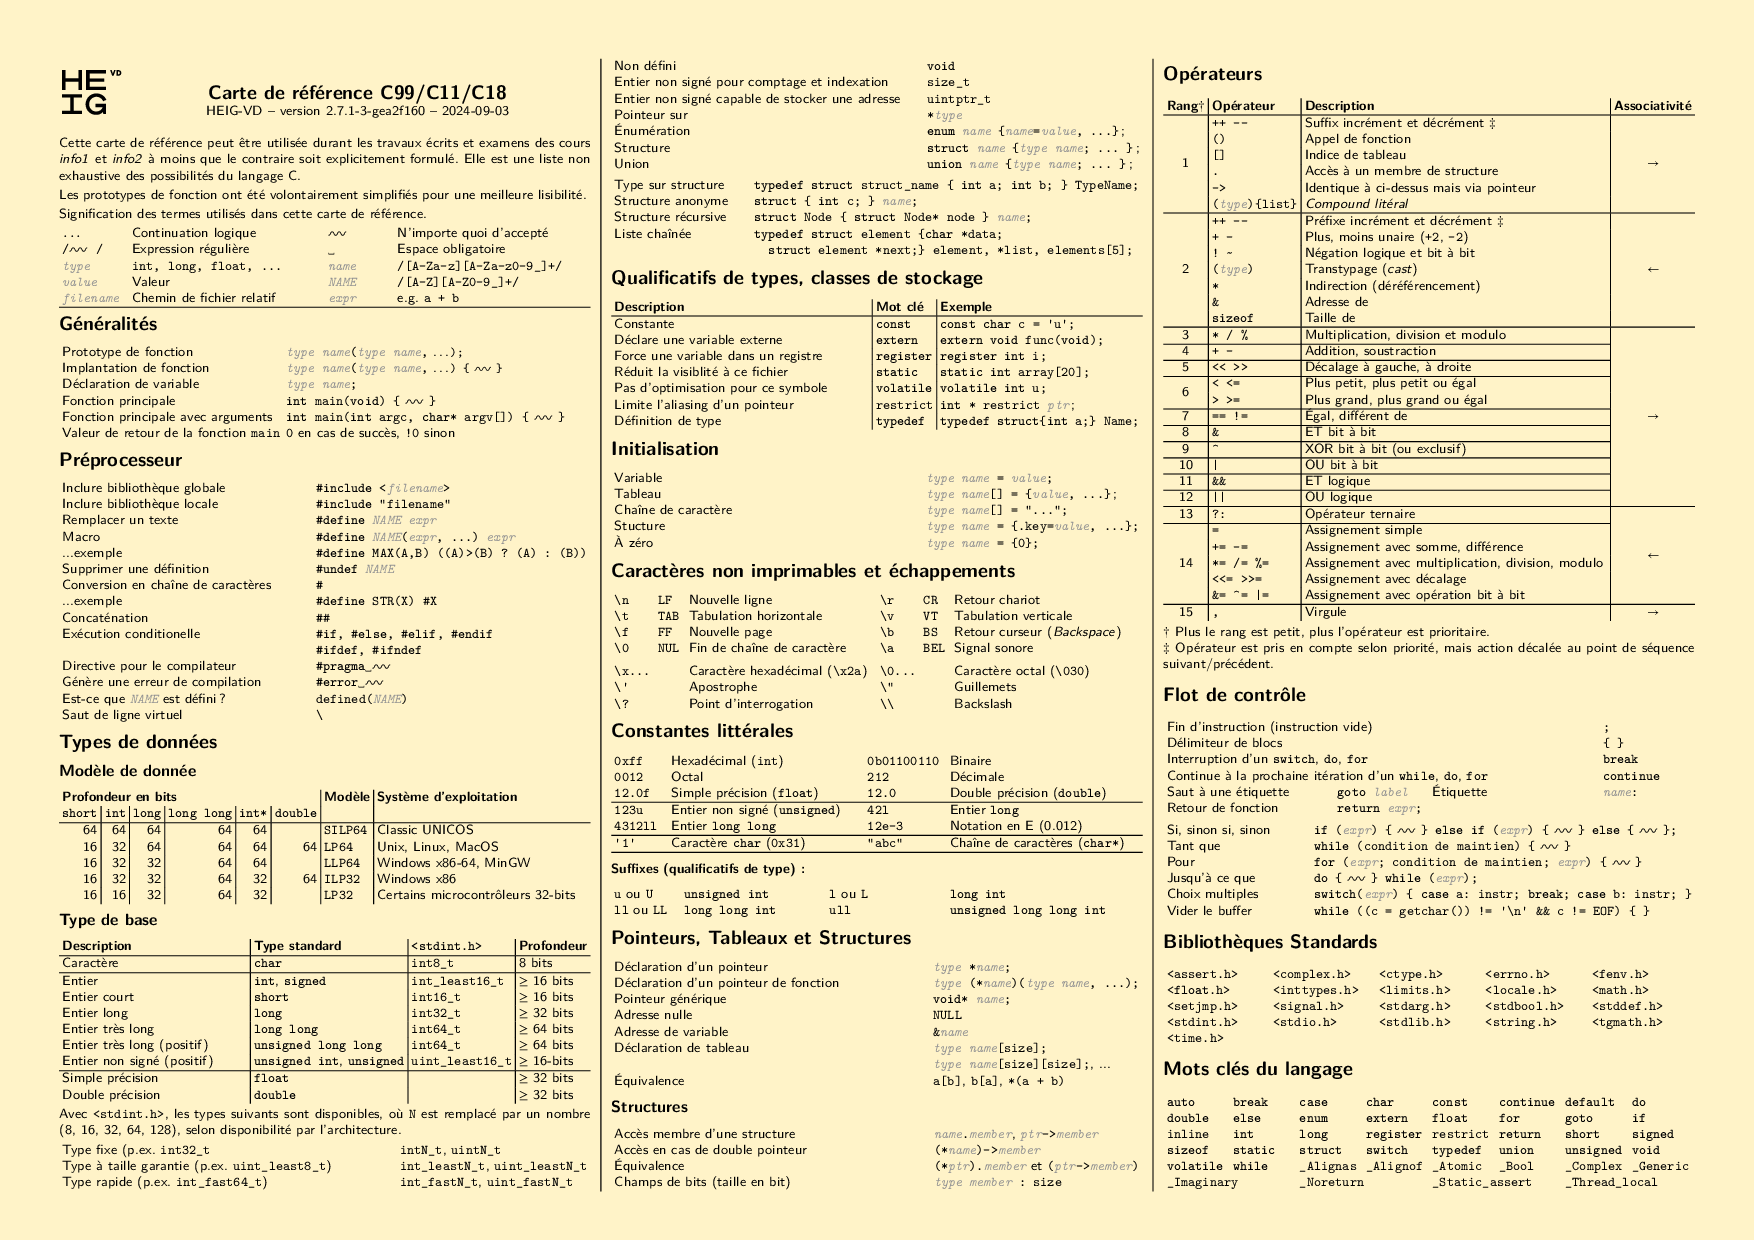
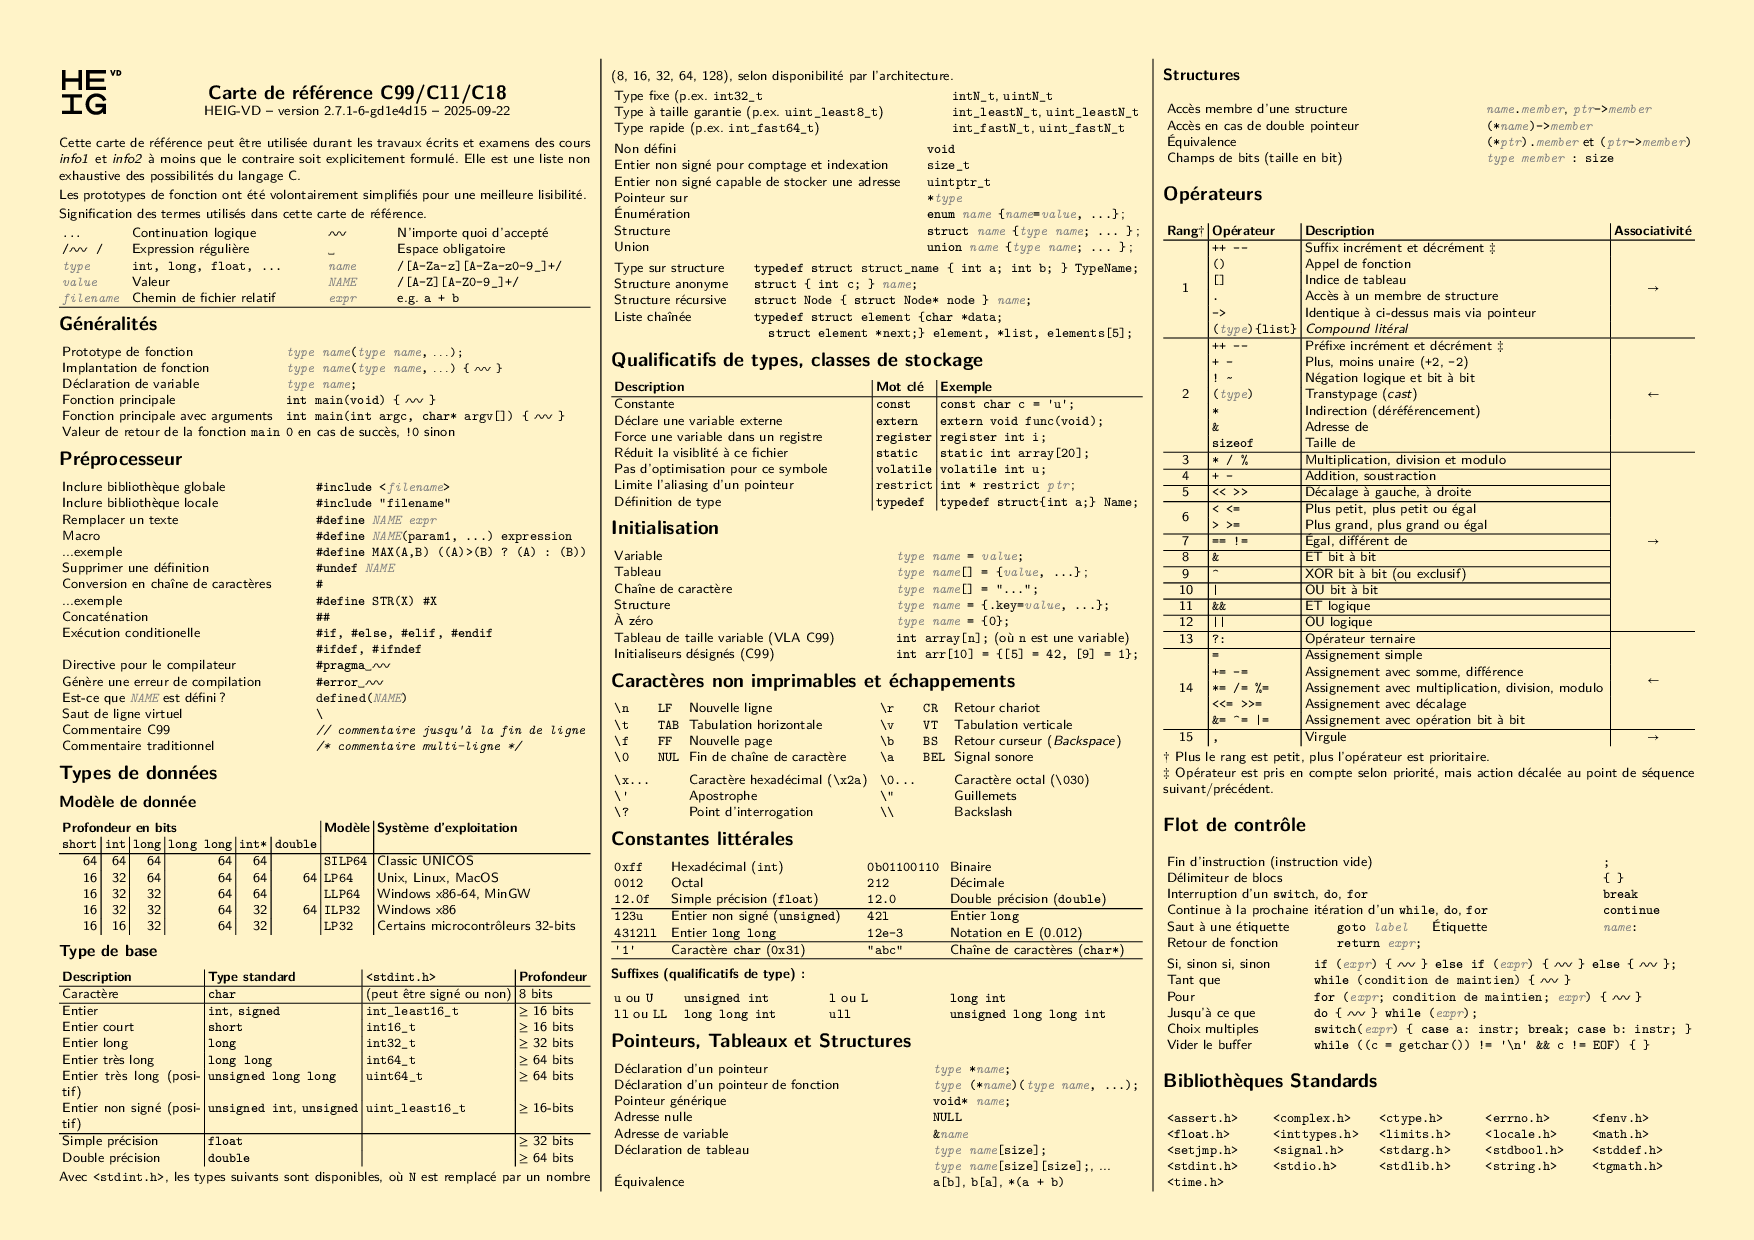
Merge

diff --git a/refcard.tex b/refcard.tex
@@ -1,6 +1,6 @@
 \documentclass{article}
 
-\usepackage[a4paper, landscape, margin=1cm]{geometry}
+\usepackage[a4paper, landscape, margin=0.5cm]{geometry}
 \usepackage{fontspec}
 \usepackage[french]{babel}
 \usepackage[fontsize=6.5pt]{scrextend}
@@ -80,17 +80,13 @@
 \begin{tabularx}{\columnwidth}{lX}
     \raisebox{-\totalheight}{\includegraphics[width=1cm]{assets/heig-vd-black.pdf}} &
     \begin{center}
-      {\Large \bf Carte de référence C99/C11/C18} \\
+      {\Large \bf Carte de référence C99..C20} \\
       HEIG-VD -- version \revision \ -- \revisiondate \\
     \end{center}
 \end{tabularx}
 Cette carte de référence peut être utilisée durant les travaux écrits et examens
 des cours \emph{info1} et \emph{info2} à moins que le contraire soit explicitement formulé.
-Elle est une liste non exhaustive des possibilités du langage C.
-
-Les prototypes de fonction ont été volontairement simplifiés pour une meilleure lisibilité.
-
-Signification des termes utilisés dans cette carte de référence.
+Elle est une liste non exhaustive des possibilités du langage C. Les prototypes de fonction ont été volontairement simplifiés pour une meilleure lisibilité. Signification des termes utilisés dans cette carte de référence :
 
 \begin{tabularx}{\linewidth}{
   >{\hsize=0.5\hsize}X% 10% of 4\hsize
@@ -134,8 +130,8 @@ Signification des termes utilisés dans cette carte de référence.
   Génère une erreur de compilation   & \cd{\#error}\tt\spc \any \\
   Est-ce que \cd{NAME} est défini ?  & \cd{defined(NAME)} \\
   Saut de ligne virtuel              & \cd{\\} \\
-  Commentaire C99                    & \cd{// commentaire jusqu'à la fin de ligne} \\
-  Commentaire traditionnel           & \cd{/* commentaire multi-ligne */} \\
+  Commentaire sur une ligne          & \cd{// comment} \\
+  Commentaire multi-lignes           & \cd{/* comment */} \\
 \end{tabularx}
 
 \section*{Types de données}
@@ -156,7 +152,7 @@ Signification des termes utilisés dans cette carte de référence.
 \begin{tabularx}{\linewidth}{X|l|l|l}
   \bf Description & \bf Type standard & \bf \texttt{<stdint.h>} & \bf Profondeur \\
   \hline
-  Caractère                   & \cd{char}      & (peut être signé ou non) & 8 bits \\
+  Caractère                   & \cd{char}      & (signed or not) & 8 bits \\
   \hline
   Entier                      & \cd{int}, \cd{signed}  & \cd {int_least16_t} & $\geq$ 16 bits \\
   Entier court                & \cd{short}     & \cd {int16_t} & $\geq$ 16 bits \\
@@ -465,8 +461,8 @@ $\ddagger$ Opérateur est pris en compte selon priorité, mais action décalée 
   Recherche dernier \texttt{c} dans \texttt{str} & \cd{char *strrchr(char *str, int c)} \\
   Recherche de sous chaîne & \cd{char *strstr(char *haystack, char *needle)} \\
   Tokenisation de chaîne & \cd{char *strtok(char *str, char *delim)} \\
-  Longueur du segment initial & \cd{size_t strspn(char *s1, char *s2)} \\
-  Longueur du segment complémentaire & \cd{size_t strcspn(char *s1, char *s2)} \\
+%   Longueur du segment initial & \cd{size_t strspn(char *s1, char *s2)} \\
+%   Longueur du segment complémentaire & \cd{size_t strcspn(char *s1, char *s2)} \\
   Recherche caractères multiples & \cd{char *strpbrk(char *s1, char *s2)} \\
   \hline
   Copie \texttt{n} char de \texttt{s2} dans \texttt{s1} & \cd{void *memcpy(void* s1, void* s2, size_t n)} \\
@@ -632,8 +628,8 @@ Format pour \texttt{scanf}: \texttt{\%[*][width][length]type} \\
   \multicolumn{2}{l}{\bf Conversion de chaînes de caractères en nombre} \\
   \cd{f}, \cd{i}, \cd{l}, \cd{ll} & \cd{type ato}\texttt{\spc}\cd{ (char* str);} \\
   \cd{f}, \cd{l}, \cd{d}, \cd{ld}, \cd{ll}, \cd{ul}, \cd{ull} & \cd{type strto}\texttt{\spc}\cd{ (char* str, char** endptr);} \\
-  Conversion avec vérification d'erreur & \cd{long strtol(char *nptr, char **endptr, int base)} \\
-  Conversion unsigned & \cd{unsigned long strtoul(char *nptr, char **endptr, int base)} \\
+%   Conversion avec vérification d'erreur & \cd{long strtol(char *nptr, char **endptr, int base)} \\
+%   Conversion unsigned & \cd{unsigned long strtoul(char *nptr, char **endptr, int base)} \\
 
   \multicolumn{2}{l}{\bf Arithmétique d'entiers} \rule{0pt}{3ex}\\
   Valeur absolue & \cd{int abs (int n);} \\
@@ -693,15 +689,11 @@ Format pour \texttt{scanf}: \texttt{\%[*][width][length]type} \\
 \small
 \begin{lstlisting}
 struct tm {
-  int tm_sec;   // Secondes (0..59)
-  int tm_min;   // Minutes (0..59)
-  int tm_hour;  // Heures (0..23)
-  int tm_mday;  // Jour du mois (1..31)
-  int tm_mon;   // Mois (0..11)
-  int tm_year;  // Nombre d'années depuis 1900
-  int tm_wday;  // Jour depuis dimanche (0..6)
-  int tm_yday;  // Jour dans l'année de (0..365)
-  int tm_isdst; // Heure été ? (Daylight Saving Time)
+  int tm_sec;   int tm_min;  // Secondes (0..59), Minutes (0..59)
+  int tm_hour;  int tm_mday; // Heures (0..23), Jour (1..31)
+  int tm_mon;   int tm_year; // Mois (0..11), Années depuis 1900
+  int tm_wday;  int tm_yday; // Jour depuis dim. (0..6), Jour (0..365)
+  int tm_isdst;              // Heure été ? (Daylight Saving Time)
 };
 \end{lstlisting}
 }
@@ -764,16 +756,16 @@ Valeurs typiques pour un modèle de donnée \textbf{ILP32}.
   \cd{FLT_EPSILON} & \cd{1.1e-7} & \cd{DBL_EPSILON} & \cd{2.2e-16}
 \end{tabularx}
 
-\section*{Compilation (gcc/clang)}
-\begin{tabularx}{\linewidth}{Xl}
-  Options standards & \texttt{-std=c99 -Wall -Wextra -O2} \\
-  Mode débogage & \texttt{-g} \\
-  Compilation simple & \texttt{gcc filename.c -o executable} \\
-  Définir une macro & \texttt{-DMACRO=value} \\
-  Inclure un répertoire & \texttt{-I./include} \\
-  Lier une bibliothèque & \texttt{-lmath} (pour \texttt{libmath}) \\
-  Standards supportés & \texttt{-std=c89}, \texttt{-std=c99}, \texttt{-std=c11}, \texttt{-std=c18} \\
-\end{tabularx}
+% \section*{Compilation (gcc/clang)}
+% \begin{tabularx}{\linewidth}{Xl}
+%   Options standards & \texttt{-std=c99 -Wall -Wextra -O2} \\
+%   Mode débogage & \texttt{-g} \\
+%   Compilation simple & \texttt{gcc filename.c -o executable} \\
+%   Définir une macro & \texttt{-DMACRO=value} \\
+%   Inclure un répertoire & \texttt{-I./include} \\
+%   Lier une bibliothèque & \texttt{-lmath} (pour \texttt{libmath}) \\
+%   Standards supportés & \texttt{-std=c89}, \texttt{-std=c99}, \texttt{-std=c11}, \texttt{-std=c18} \\
+% \end{tabularx}
 
 \end{multicols*}
 \end{document}
